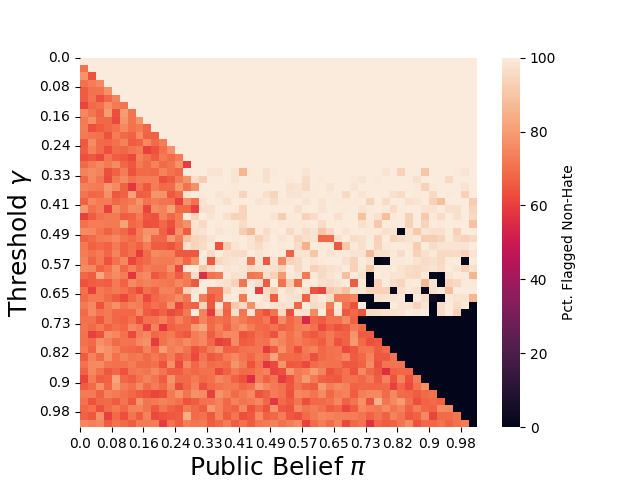
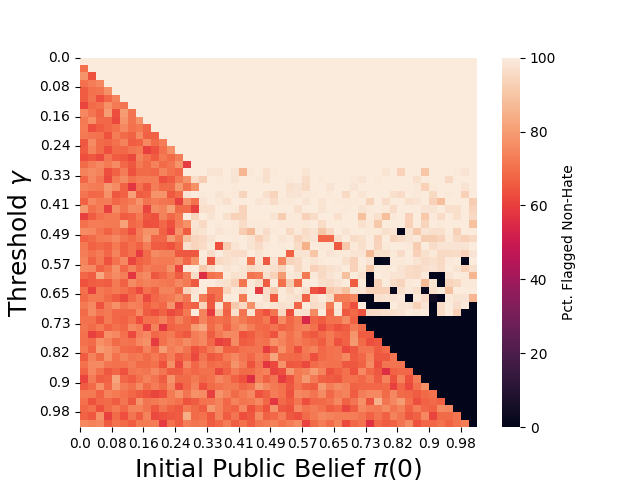
added files

Changed region(s): [[0.1875, 0.9375, 0.6562, 1.0]]

diff --git a/herding.py b/herding.py
@@ -99,8 +99,8 @@ labels = ["[0,0]","[1,1]","[1,2]","[1,3]","[1,4]","[1,5]"]
 sns.axes_style("darkgrid")
 import matplotlib.pyplot as plt
 plt.plot(public_belief_grid,zero_counts,label=labels )
-plt.xlabel("Public Belief $\pi$",fontdict={"size":18})
-plt.ylabel("Action $a$",fontdict={"size":18})
+plt.xlabel("Initial Public Belief $\pi$([0,0])",fontdict={"size":18})
+plt.ylabel("Average Action $a$ of last 10 agents",fontdict={"size":18})
 plt.yticks(Xs,labels)
 plt.legend(title="Underlying State")
 plt.savefig("plots/public_belief_grid.png")

diff --git a/controllingherding.py b/controllingherding.py
@@ -155,7 +155,7 @@ sns.heatmap(actions_taken[0][:,:,:].sum(axis=2),cbar_kws={"label":"Pct. Flagged 
 plt.xticks(range(0,50,4),np.round(public_belief_grid[::4],2),rotation=0)
 plt.yticks(range(0,50,4),np.round(public_belief_grid[::4],2),rotation=0)
 
-plt.xlabel("Public Belief $\pi$",fontdict={"size":18})
+plt.xlabel("Initial Public Belief $\pi$(0)",fontdict={"size":18})
 
 plt.ylabel("Threshold $\gamma$",fontdict={"size":18})
 plt.savefig("plots/public_belief_thresholds.png")
